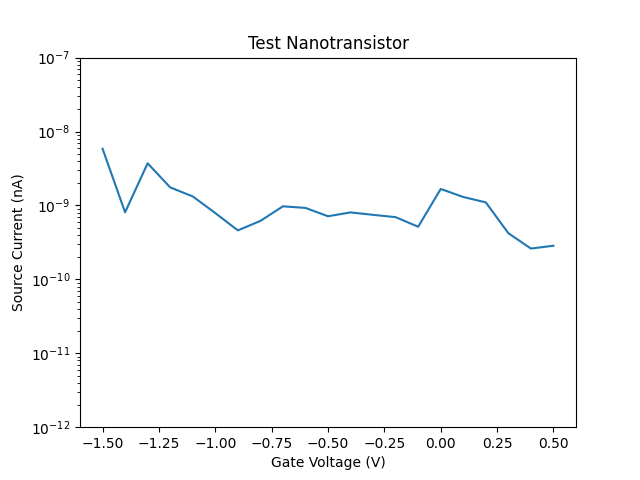
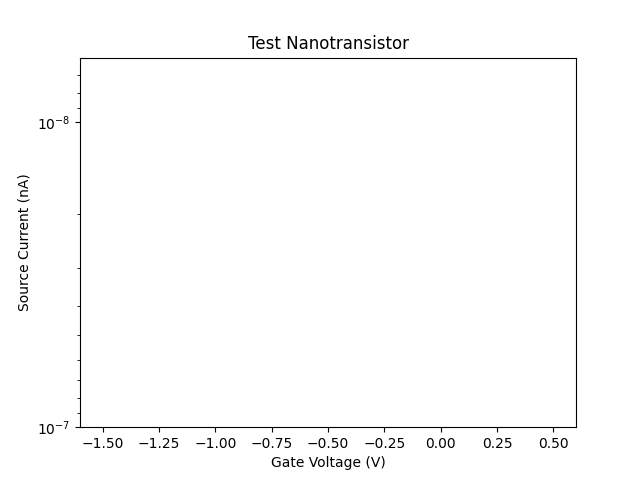
a

diff --git a/src/merge.py b/src/merge.py
@@ -1,0 +1,47 @@
+from pathlib import Path
+import os
+from datetime import datetime, timedelta, timezone
+
+from modules.plotter import *
+
+if __name__ == "__main__":
+    JST = timezone(timedelta(hours=+9), "JST")
+
+    # GOOD, タイムゾーンを指定している．早い
+    timenow = datetime.now(JST)
+    nowstr = timenow.strftime("%Y%m%d_%H_%M_%S")
+    p = Path("./results")
+    files = list(p.glob("*"))
+    file_updates = {file_path: os.stat(file_path).st_mtime for file_path in files}
+    path_list = sorted(file_updates, key=file_updates.get)
+
+    with open("./conditions.txt") as f:
+        condstr = f.read()
+
+    with open("./tmp.txt") as f:
+        rang = f.read()
+        print(rang)
+        sta, end, ste = map(float, rang.split(","))
+
+    for file_path in path_list[:3]:
+        with open(file_path) as f:
+            res = f.read()
+            xarray = np.arange(sta, end + ste, ste)
+            with open("./parsed_results/" + file_path.name, "w+") as f2:
+                parsed_data2 = parse_data(res, False)
+                f2.write(str(parsed_data2))
+                f2.write(str(xarray))
+            parsed_data = parse_data(res, True)
+            print(rang.split(","))
+
+            plot_data(
+                parsed_data=parsed_data,
+                xarray=xarray,
+                xlabel="Gate Voltage (V)",
+                ylabel="Source Current (nA)",
+                ylim=10e-8,
+                # TODO: title or legend
+                title="Test Nanotransistor",
+                # TODO: file name
+                out_path="./figures/" + file_path.stem + ".png",
+            )
